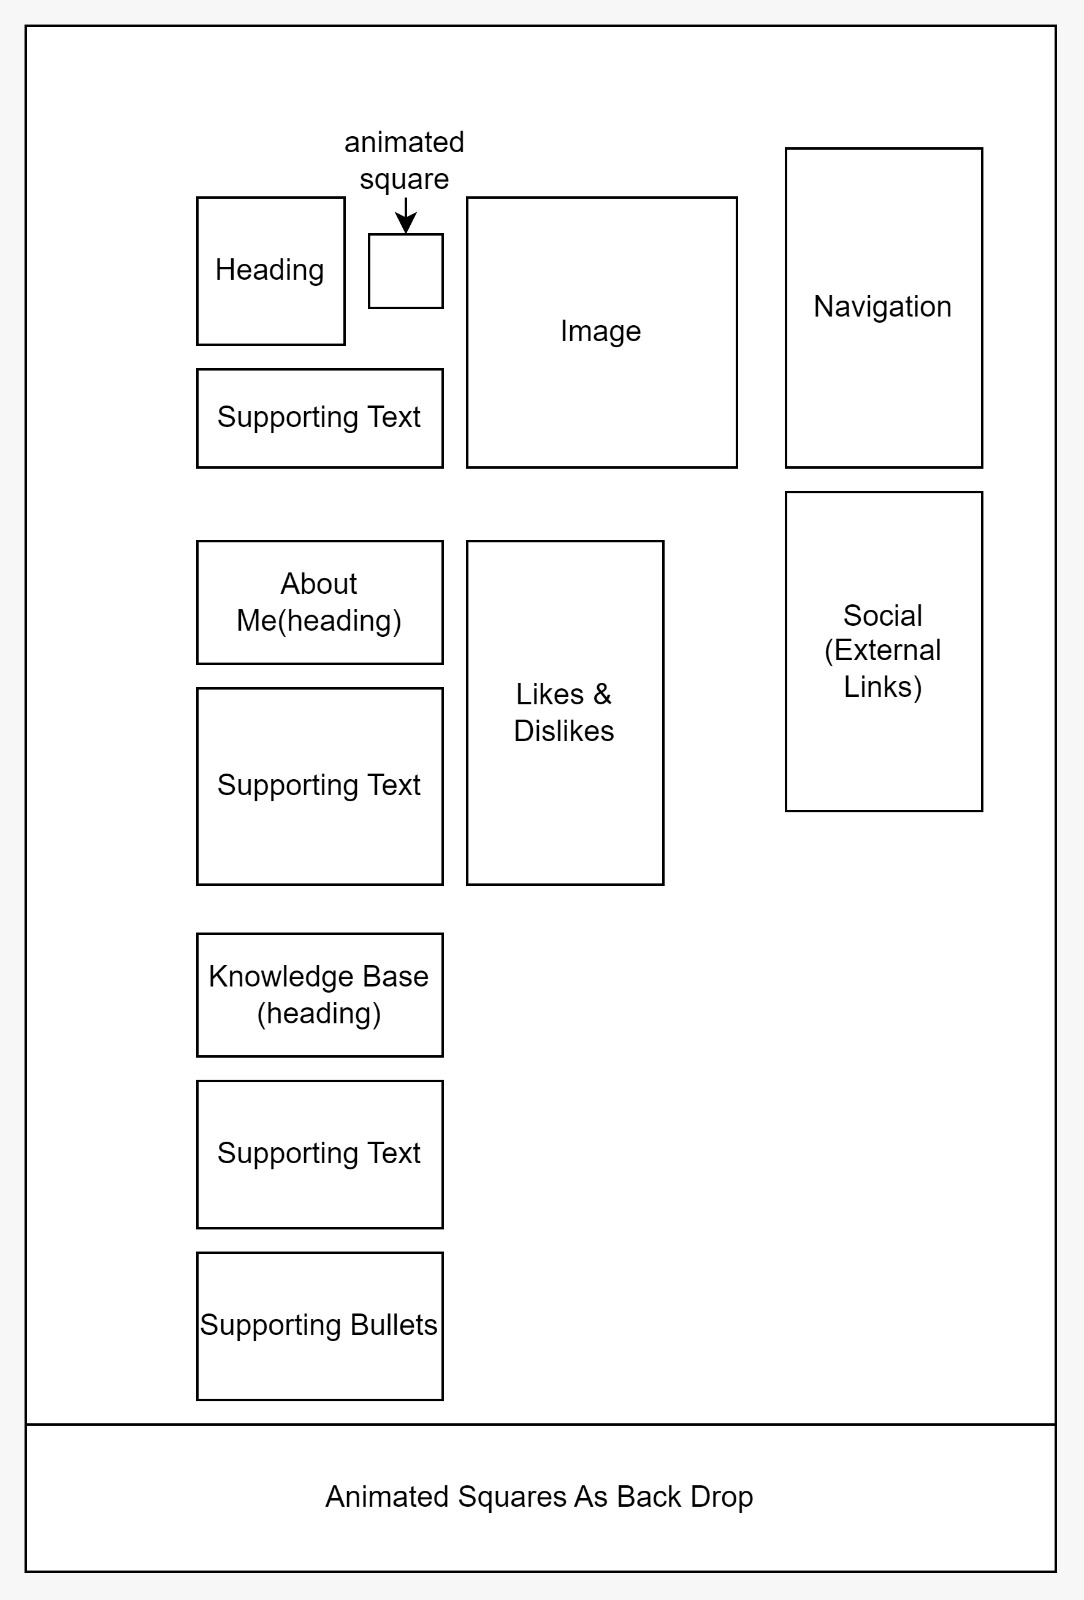
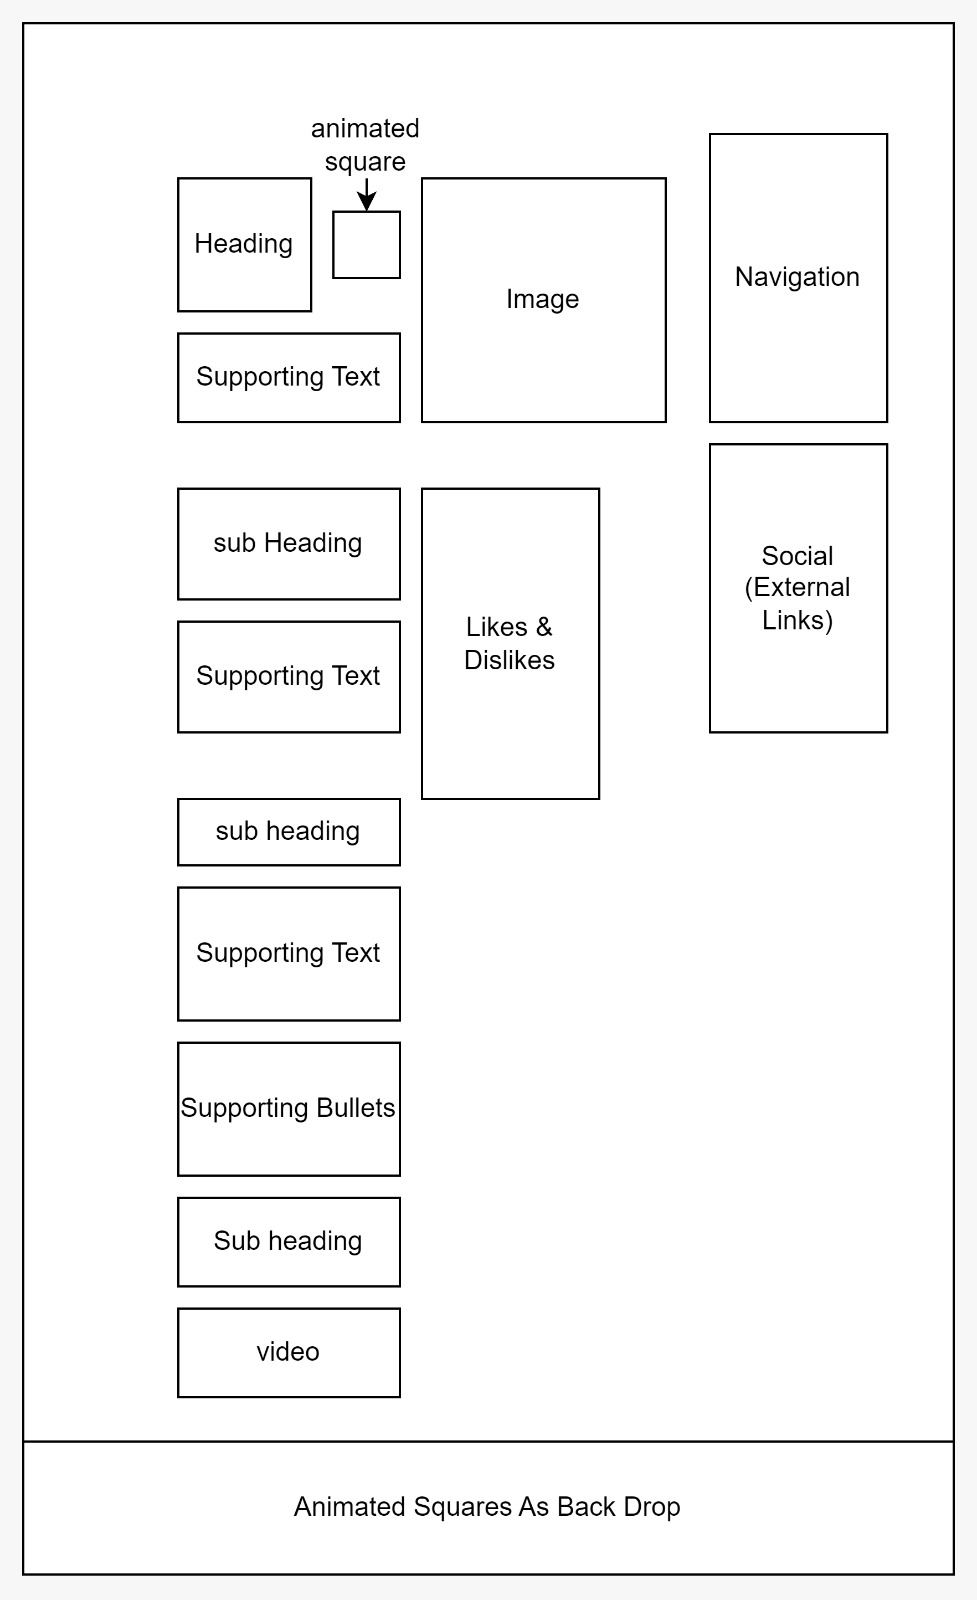
added video and change wireframe

diff --git a/references.html b/references.html
@@ -302,37 +302,37 @@
     <ul id="links">
         <div id="locaters">
             <div class="locate">
-                <a href="WebProgrammingPortfolio/index.html" class="navRedirect">
+                <a href="index.html" class="navRedirect">
                     <img class='right-arrow' src='assets/next.png'>
                     <li class="link-text">home</li>
                 </a>
             </div>
             <div class="locate">
-                <a href="WebProgrammingPortfolio/personality.html" class="navRedirect">
+                <a href="personality.html" class="navRedirect">
                     <img class='right-arrow' src='assets/next.png'>
                     <li class="link-text">personality</li>
                 </a>
             </div>
             <div class="locate">
-                <a href="WebProgrammingPortfolio/professional.html" class="navRedirect">
+                <a href="professional.html" class="navRedirect">
                     <img class='right-arrow' src='assets/next.png'>
                     <li class="link-text">professional</li>
                 </a>
             </div>
             <div class="locate">
-                <a href="WebProgrammingPortfolio/personalDev.html" class="navRedirect">
+                <a href="personalDev.html" class="navRedirect">
                     <img class='right-arrow' src='assets/next.png'>
                     <li class="link-text">personal development</li>
                 </a>
             </div>
             <div class="locate">
-                <a href="WebProgrammingPortfolio/storyboard.html" class="navRedirect">
+                <a href="storyboard.html" class="navRedirect">
                     <img class='right-arrow' src='assets/next.png'>
                     <li class="link-text">storyboard</li>
                 </a>
             </div>
             <div class="locate">
-                <a href="WebProgrammingPortfolio/references.html" class="navRedirect">
+                <a href="references.html" class="navRedirect">
                     <img class='right-arrow' src='assets/next.png'>
                     <li class="link-text">references</li>
                 </a>

diff --git a/index.html b/index.html
@@ -310,7 +310,7 @@
             100%{
                 opacity: 0;
                 rotate: 360deg;
-                bottom: 250vh;
+                bottom: 290vh;
             }
 
         }
@@ -329,7 +329,7 @@
         #animated-square-container{
             height: 100vh;
             position: absolute;
-            top:100vh;
+            top:140vh;
             display: flex;
             margin-top: 30vh;
             align-items: end;
@@ -498,7 +498,7 @@
 
     <!-- About Me -->
     <section id="container-3">
-        <h1 id="about-h1">about me :)<span class="line"></span></h1>
+        <h1 id="about-h1">About Me :)<span class="line"></span></h1>
 
         <div id="about-inner-container">
 
@@ -530,7 +530,7 @@
 
     <!-- Knowledge Base -->
     <section id="container-4">
-        <h1 id="about-h1">knowledge base<span class="line" style="width: 20vw;"></span></h1>
+        <h1 id="about-h1">Knowledge Base<span class="line" style="width: 20vw;"></span></h1>
 
         <div id="about-inner-container">
 
@@ -561,7 +561,12 @@
 
         </div>
 
+        <!-- Favourite Song -->
+            <div id="heroTextContainer" style="flex-direction: column;">
+                <h1 id="about-h1">Favourite Song</h1>
+                <iframe style="border-radius: 8px;" width="560" height="315" src="https://www.youtube.com/embed/bfQun13ETYc?si=-E3owP32aPm5Khlh" title="YouTube video player" frameborder="0" allow="accelerometer; autoplay; clipboard-write; encrypted-media; gyroscope; picture-in-picture; web-share" allowfullscreen></iframe>            </div>
     </section>
+
 </body>
 
 </html>

diff --git a/storyboard.html b/storyboard.html
@@ -417,7 +417,7 @@
             <h1 id="waz-here">The Storyboard.</h1>
         </div>
         <div id="pageConatin">
-            <a href="https://jaydbb.github.io/ target="_blank"><h1>Link To Website.</h1></a>
+            <a href="https://jaydbb.github.io/" target="_blank"><h1>Link To Website.</h1></a>
             <h1>The Pages.</h1>
             <ul>
                 <li>Index (Home)</li>
@@ -456,6 +456,7 @@
                 <li>Images</li>
                 <li>External Links</li>
                 <li>Internal Links</li>
+                <li>Video</li>
             </ul>  
         </div>
         <h1 style="margin-bottom: 10px;">The Wireframes.</h1>
